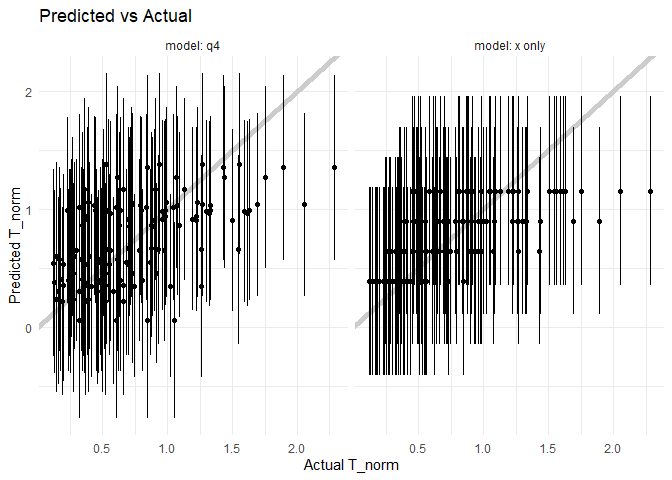
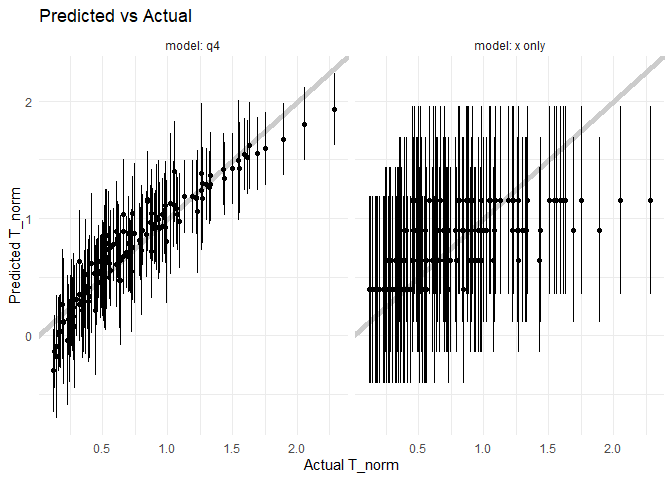
revision 1

diff --git a/challenges/c11-psaap-assignment.md b/challenges/c11-psaap-assignment.md
@@ -387,7 +387,16 @@ model_metric <- tibble(
   mse = map_dbl(models, ~ mse(.x, df_validate)),
   rsq = map_dbl(models, ~ rsquare(.x, df_validate))
 )
+
+model_metric
 ```
+
+    ## # A tibble: 3 × 3
+    ##   model          mse     rsq
+    ##   <chr>        <dbl>   <dbl>
+    ## 1 baseline    0.0809 0.475  
+    ## 2 cheat       0.0537 0.637  
+    ## 3 nonphysical 0.159  0.00190
 
 **Observations**:
 
@@ -419,33 +428,44 @@ fitting. So `T_norm ~ . - x` would fit on all columns *except* `x`.
 ## TODO: Inspect the regression coefficients for the following model
 fit_q4 <- 
   df_train %>% 
-  # lm(formula = T_norm ~ . - idx - avg_q - avg_T - rms_T)
-  lm(formula = T_norm ~ L + W + U_0 + N_p + k_f + T_f)
+  lm(formula = T_norm ~ . - idx - avg_q - avg_T - rms_T)
+  # lm(formula = T_norm ~ L + W + U_0 + N_p + k_f + T_f)
   # lm(formula = T_norm ~ L - W - U_0 - N_p - k_f - T_f)
 
 
 tidy(fit_q4)
 ```
 
-    ## # A tibble: 7 × 5
-    ##   term             estimate   std.error statistic     p.value
-    ##   <chr>               <dbl>       <dbl>     <dbl>       <dbl>
-    ## 1 (Intercept)   4.88        0.834           5.86  0.000000126
-    ## 2 L             2.57        2.00            1.28  0.203      
-    ## 3 W           -44.4         8.03           -5.53  0.000000467
-    ## 4 U_0          -0.168       0.185          -0.910 0.366      
-    ## 5 N_p          -0.000000402 0.000000203    -1.98  0.0515     
-    ## 6 k_f          -2.28        3.33           -0.685 0.496      
-    ## 7 T_f          -0.00478     0.00115        -4.15  0.0000874
+    ## # A tibble: 18 × 5
+    ##    term        estimate std.error statistic  p.value
+    ##    <chr>          <dbl>     <dbl>     <dbl>    <dbl>
+    ##  1 (Intercept) -3.03e-3   1.66e+0  -0.00183 9.99e- 1
+    ##  2 x            1.02e+0   5.61e-2  18.2     1.66e-26
+    ##  3 L            3.96e+0   9.36e-1   4.23    7.81e- 5
+    ##  4 W           -3.71e+1   6.39e+0  -5.81    2.33e- 7
+    ##  5 U_0         -3.26e-1   1.14e-1  -2.87    5.63e- 3
+    ##  6 N_p          2.72e-7   1.38e-7   1.97    5.33e- 2
+    ##  7 k_f          2.55e+0   2.13e+0   1.20    2.36e- 1
+    ##  8 T_f         -3.79e-4   1.17e-3  -0.323   7.48e- 1
+    ##  9 rho_f       -5.62e-1   3.21e-1  -1.75    8.51e- 2
+    ## 10 mu_f        -8.25e+3   1.47e+4  -0.562   5.76e- 1
+    ## 11 lam_f       -4.68e+0   1.11e+1  -0.420   6.76e- 1
+    ## 12 C_fp        -6.59e-4   3.20e-4  -2.06    4.39e- 2
+    ## 13 rho_p        5.64e-6   1.84e-5   0.307   7.60e- 1
+    ## 14 d_p          1.24e+5   4.49e+4   2.75    7.76e- 3
+    ## 15 C_pv        -7.24e-4   3.72e-4  -1.94    5.64e- 2
+    ## 16 h            1.41e-6   4.87e-5   0.0289  9.77e- 1
+    ## 17 I_0          1.60e-7   4.29e-8   3.73    4.13e- 4
+    ## 18 eps_p        1.11e+0   1.10e+0   1.01    3.18e- 1
 
 ``` r
 glance(fit_q4)
 ```
 
     ## # A tibble: 1 × 12
-    ##   r.squared adj.r.squared sigma statistic      p.value    df logLik   AIC   BIC
-    ##       <dbl>         <dbl> <dbl>     <dbl>        <dbl> <dbl>  <dbl> <dbl> <dbl>
-    ## 1     0.456         0.412 0.372      10.2 0.0000000353     6  -30.8  77.6  96.7
+    ##   r.squared adj.r.squared sigma statistic  p.value    df logLik   AIC   BIC
+    ##       <dbl>         <dbl> <dbl>     <dbl>    <dbl> <dbl>  <dbl> <dbl> <dbl>
+    ## 1     0.935         0.917 0.140      52.0 3.46e-30    17   53.9 -69.7 -24.5
     ## # ℹ 3 more variables: deviance <dbl>, df.residual <int>, nobs <int>
 
 ``` r
